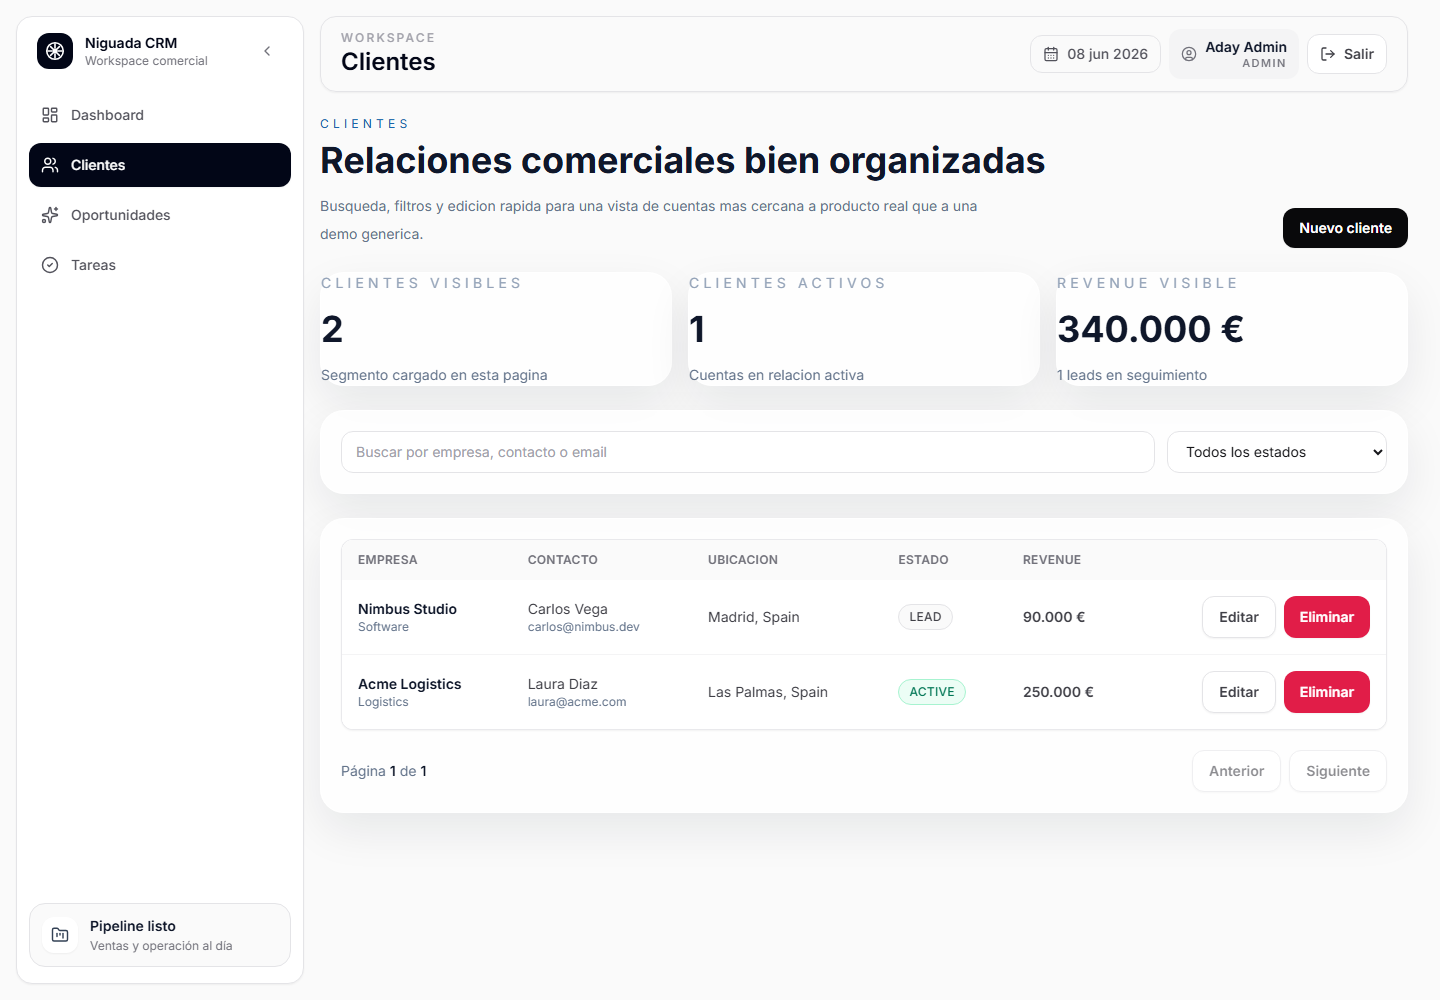
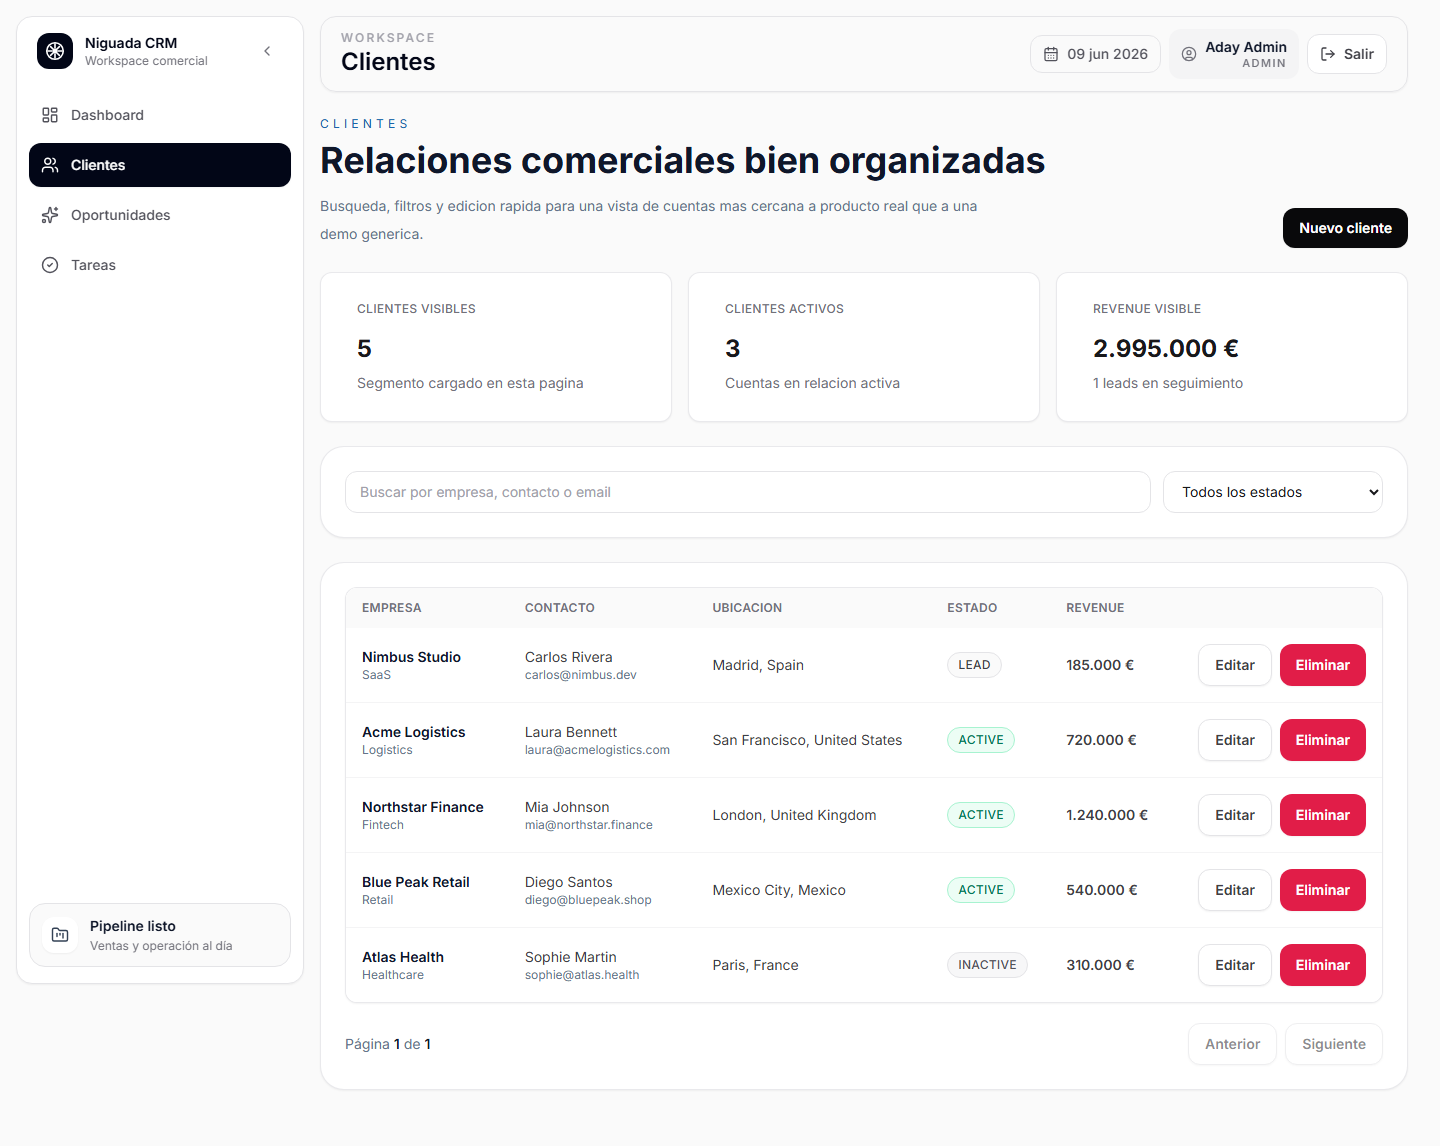
update readme

diff --git a/README.md b/README.md
@@ -1,37 +1,58 @@
 # 🚀 Niguada CRM - The Ultimate Full-Stack Production-Ready Boilerplate
 
-A modern, ultra-clean, and high-performance Mini ERP/CRM Starter Kit built from scratch to save developers and startups over 40+ hours of setup, architecture design, and configuration.
+A modern, ultra-clean, and high-performance Mini ERP/CRM Starter Kit built from scratch to help developers, freelancers, and startups save 40+ hours of setup, architecture design, authentication work, database modeling, and production configuration.
+
+Niguada CRM gives you a serious full-stack foundation you can use to build internal tools, client CRM systems, SaaS dashboards, sales portals, admin panels, and business management products faster.
 
 ## 🌐 Live Demo & Production Showcase
 
 Test the fully functional production build right now:
 
-🔗 Live Demo App: [PEGA_AQUÍ_TU_ENLACE_DE_VERCEL_CON_HTTPS]
+🔗 **Live Demo App:** [https://niguada.vercel.app/](https://niguada.vercel.app/)
 
-🔑 Demo Credentials:
+🔑 **Demo Credentials**
 
-Email: `admin@niguada.dev`
+```txt
+Email: admin@niguada.dev
+Password: Admin123!
+```
 
-Password: `[PEGA_AQUÍ_LA_CONTRASEÑA_DEL_SEED_ADMIN]`
+The demo database is populated with realistic CRM data so you can explore the product immediately: clients, opportunities, tasks, authentication, protected routes, and production-style UI flows.
 
-The database automatically populates with realistic mock data via a production database seed script on every deployment.
+## 📸 Product Preview
+
+### Login Experience
+
+![Niguada CRM login screen](docs/screenshots/login.png)
+
+### Executive Dashboard
+
+![Niguada CRM dashboard screen](docs/screenshots/dashboard.png)
+
+### CRM Management
+
+![Niguada CRM clients screen](docs/screenshots/crm.png)
 
 ## 🛠 The Tech Stack (Industry Standards)
 
-This boilerplate is structured following enterprise-level architectural patterns:
+This boilerplate is structured with practical, enterprise-inspired architectural patterns:
 
-- **Frontend:** React, TypeScript, Vite, Tailwind CSS, Shadcn UI, Lucide Icons.
+- **Frontend:** React, TypeScript, Vite, Tailwind CSS, Shadcn-inspired UI components, Lucide Icons.
 - **Backend:** Node.js, Express, TypeScript, Prisma ORM, JWT Authentication.
 - **Database & Infra:** PostgreSQL, Docker, Docker Compose.
-- **Validation:** Zod (Strict end-to-end type safety for API requests and forms).
+- **Validation:** Zod for strict request validation and safer API contracts.
+- **Deployment Ready:** Frontend prepared for Vercel SPA routing and backend-ready production environment configuration.
 
 ## ✨ Core Features Included
 
-- **Modular Architecture:** Clean backend folder structure separating routes, controllers, and services. Easy to extend.
-- **Robust Authentication:** Secure JWT-based auth flow with protected route wrappers on both client and server.
-- **Modern UI/UX:** Dark/Light theme ready, premium layout, custom modern sidebar, and fully styled DataTable components.
-- **Interactive Sales Pipeline:** Drag-and-drop style Kanban layout for managing business opportunities and leads.
-- **Automated Seeding:** Instantly fill your local or production database with realistic data for immediate testing.
+- **Modular Architecture:** Clean backend structure with separated routes, controllers, services, schemas, middleware, and shared utilities.
+- **Robust Authentication:** Secure JWT-based auth flow with login, profile refresh, protected API endpoints, and client-side route guards.
+- **Modern UI/UX:** Premium CRM layout with sidebar navigation, responsive tables, metrics, modals, confirmation dialogs, loading states, and clean visual hierarchy.
+- **CRM Resource Modules:** Clients, opportunities, tasks, and notes modules designed as realistic business entities instead of toy examples.
+- **Sales Pipeline Foundation:** Opportunity stages, probability tracking, estimated values, expected close dates, and pipeline-focused dashboard metrics.
+- **Mutation Feedback:** User-friendly success and error feedback for create, update, and delete flows.
+- **Automated Seeding:** Local and production-friendly seed scripts to populate the database with realistic demo data.
+- **Dockerized Workflow:** Docker and Docker Compose configuration included for a faster full-stack local setup.
 
 ## 💻 1-Minute Local Setup
 
@@ -56,16 +77,28 @@ npm install
 npm run dev
 ```
 
-Alternatively, launch the entire ecosystem seamlessly using our production-ready Docker configuration:
+Alternatively, launch the entire ecosystem with Docker:
 
 ```bash
 docker-compose up --build
 ```
 
+## 📦 What You Get
+
+- Full React + TypeScript frontend application.
+- Express + TypeScript backend API.
+- Prisma schema, migrations, and seed scripts.
+- JWT authentication flow.
+- PostgreSQL database setup.
+- Docker production-style configuration.
+- Responsive CRM interface.
+- Clean folder structure ready to extend.
+- Demo data for immediate testing and screenshots.
+
 ## 💼 Commercial License & Full Access
 
-Want to use this clean architecture to build client projects or launch your own profitable SaaS?
+Want to use this architecture to build client projects, ship internal tools, or launch your own profitable SaaS faster?
 
-🔗 Get the Commercial Production License on Lemon Squeezy: [AQUÍ_IRÁ_EL_LINK_DE_TU_TIENDA]
+🔗 **Get the Commercial Production License:** [AQUÍ_IRÁ_EL_LINK_DE_TU_TIENDA]
 
-Built with ❤ by [Tu Nombre o GitHub User]
+Built with ❤ by Aday Monzón.
